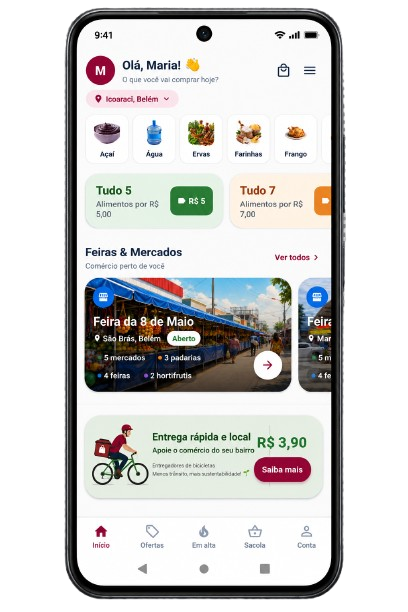
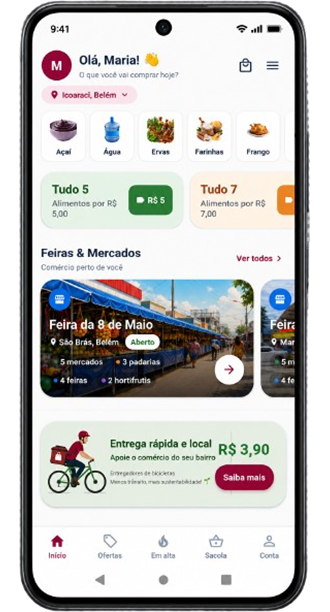
Ajusta FAQ, mockups das solucoes e card institucional
- FAQ: novas perguntas e respostas; card institucional com altura fixa (nao estica ao abrir)
- Padroniza os tres mockups dos apps em canvas unico sem cortes
- Categorias compactas na home com titulo 'Categorias com pronta entrega'
- Card 'App Entregador' e atualizacao dos textos do CTA
- Otimiza imagem do banner entregador

diff --git a/src/components/SolutionsGrid/index.tsx b/src/components/SolutionsGrid/index.tsx
@@ -2,27 +2,30 @@ import { ArrowRight } from "lucide-react";
 import { Link } from "@tanstack/react-router";
 import { SectionTitle } from "@/components/SectionTitle";
 import appClienteMockup from "@/assets/images/empresas/app-cliente.png";
+import appParceiroMockup from "@/assets/images/empresas/app-parceiro.png";
+import appEntregadorMockup from "@/assets/images/empresas/app-entregador.png";
 
 const solutions = [
   {
     title: "App do Cliente",
     text: "Compre em poucos cliques e receba rapidinho.",
     to: "/como-funciona",
+    mockup: appClienteMockup,
+    deviceAlt: "Aplicativo Armazém Tag em um smartphone",
   },
   {
     title: "App do Parceiro",
     text: "Gerencie seu negócio e receba pedidos.",
     to: "/estabelecimentos",
+    mockup: appParceiroMockup,
+    deviceAlt: "Aplicativo Armazém Tag do parceiro em um smartphone",
   },
   {
-    title: "App do Entregador",
+    title: "App Entregador",
     text: "Mais entregas feitas, trabalho com flexibilidade.",
     to: "/entregadores",
-  },
-  {
-    title: "Área do Empreendedor",
-    text: "Acompanhe vendas e gestão em um só lugar.",
-    to: "/como-funciona",
+    mockup: appEntregadorMockup,
+    deviceAlt: "Aplicativo Armazém Tag do entregador em um smartphone",
   },
 ] as const;
 
@@ -32,54 +35,49 @@ export function SolutionsGrid() {
       <SectionTitle className="solutions-section__title">
         Nossas soluções para todos
       </SectionTitle>
-      <div className="grid gap-3 md:grid-cols-4 mt-1 sm:mt-2">
-        {solutions.map(({ title, text, to }, i) => {
-          const isClient = i === 0;
-
-          if (isClient) {
-            return (
-              <article
-                key={title}
-                className="solution-card solution-card--client min-h-48 rounded-card bg-tint p-5"
-              >
-                <div className="solution-card__content">
-                  <span className="text-xs font-bold text-primary">
-                    SOLUÇÃO 0{i + 1}
-                  </span>
-                  <h3 className="mt-5 font-display text-xl font-extrabold">
-                    {title}
-                  </h3>
-                  <p className="mt-2 text-sm text-muted-foreground">{text}</p>
-                  <Link
-                    to={to}
-                    className="mt-7 inline-flex items-center gap-2 text-xs font-bold text-primary"
-                  >
-                    Conhecer agora <ArrowRight className="size-3" />
-                  </Link>
-                </div>
-                <img
-                  src={appClienteMockup}
-                  alt="Aplicativo Armazém Tag exibido em um smartphone"
-                  className="solution-card__device"
-                />
-              </article>
-            );
-          }
+      <div className="grid gap-3 md:grid-cols-3 mt-1 sm:mt-2">
+        {solutions.map(({ title, text, to, mockup, deviceAlt }, i) => {
+          const isFeatured = Boolean(mockup);
+          const cardClasses = `rounded-card ${
+            i === 1 ? "bg-[#faf9f8]" : i % 2 === 0 ? "bg-tint" : "bg-soft"
+          }${
+            isFeatured ? " solution-card solution-card--client" : " min-h-48 p-5"
+          }`;
 
           return (
-            <article
-              key={title}
-              className={`min-h-48 rounded-card p-5 ${i % 2 === 0 ? "bg-tint" : "bg-soft"}`}
-            >
-              <span className="text-xs font-bold text-primary">SOLUÇÃO 0{i + 1}</span>
-              <h3 className="mt-5 font-display text-xl font-extrabold">{title}</h3>
-              <p className="mt-2 text-sm text-muted-foreground">{text}</p>
-              <Link
-                to={to}
-                className="mt-7 inline-flex items-center gap-2 text-xs font-bold text-primary"
-              >
-                Conhecer agora <ArrowRight className="size-3" />
-              </Link>
+            <article key={title} className={cardClasses}>
+              <div className={isFeatured ? "solution-card__content" : undefined}>
+                <span
+                  className={`text-xs font-bold text-primary${isFeatured ? " solution-card__eyebrow" : ""}`}
+                >
+                  SOLUÇÃO 0{i + 1}
+                </span>
+                <h3
+                  className={`font-display text-xl font-extrabold${isFeatured ? " solution-card__title" : " mt-5"}`}
+                >
+                  {title}
+                </h3>
+                <p
+                  className={`text-sm text-muted-foreground${isFeatured ? " solution-card__description" : " mt-2"}`}
+                >
+                  {text}
+                </p>
+                <Link
+                  to={to}
+                  className={`${isFeatured ? "solution-card__link " : "mt-7 "}inline-flex items-center gap-2 text-xs font-bold text-primary`}
+                >
+                  Conhecer agora <ArrowRight className="size-3" />
+                </Link>
+              </div>
+              {isFeatured && (
+                <div className="solution-card__device-wrapper">
+                  <img
+                    src={mockup}
+                    alt={deviceAlt}
+                    className="solution-card__device"
+                  />
+                </div>
+              )}
             </article>
           );
         })}

diff --git a/src/components/FaqBlock/index.tsx b/src/components/FaqBlock/index.tsx
@@ -1,10 +1,30 @@
 import { ChevronDown } from "lucide-react";
 
 const faqs = [
-  "Como funcionam as entregas?",
-  "Quais bairros são atendidos?",
-  "Quais formas de pagamento?",
-  "Como ser parceiro?",
+  {
+    q: "Quem é responsável pela entrega?",
+    a: "A entrega é realizada pelo próprio estabelecimento ou por um entregador escolhido por ele. A Armazém Tag fornece a tecnologia para organizar o pedido e acompanhar seus status.",
+  },
+  {
+    q: "Com quem o cliente fala sobre o pedido?",
+    a: "O cliente trata diretamente com o estabelecimento assuntos relacionados ao produto, preparo, prazo e entrega. A Armazém Tag presta suporte para dificuldades técnicas relacionadas ao uso da plataforma.",
+  },
+  {
+    q: "Quais são os requisitos para cadastrar um estabelecimento?",
+    a: "O estabelecimento deve trabalhar com produtos à pronta entrega, já preparados ou disponíveis para despacho, manter preços e estoque atualizados e possuir uma forma própria de realizar as entregas.",
+  },
+  {
+    q: "Como o estabelecimento mantém as entregas rápidas?",
+    a: "O estabelecimento deve definir um raio de atendimento compatível com sua capacidade e contar com entregadores suficientes para a demanda. Os pedidos não devem ser acumulados por longos períodos antes da saída, pois isso compromete a rapidez e a qualidade da entrega.",
+  },
+  {
+    q: "Quais são minhas responsabilidades com os pagamentos?",
+    a: "O estabelecimento deve cumprir corretamente os pedidos aceitos e garantir a entrega dos produtos anunciados. Quando houver produto ausente, incorreto, impróprio para consumo ou pedido não entregue, deverá oferecer a correção do pedido, a troca do produto ou o reembolso total ou parcial, conforme o caso e as regras da plataforma. A troca deverá ser combinada com o cliente e realizada pelo estabelecimento. Quando houver reembolso, a Armazém Tag registra a ocorrência e processa o estorno por meio do parceiro financeiro.",
+  },
+  {
+    q: "Quanto custa a entrega?",
+    a: "A Armazém Tag conecta clientes a estabelecimentos próximos. Por isso, as taxas de entrega são reduzidas: grátis, R$ 3, R$ 5 ou no máximo R$ 7. O valor é definido pelo estabelecimento conforme a distância e aparece antes da confirmação do pedido. Quando a entrega for grátis, o custo será assumido pelo próprio estabelecimento, e não pela Armazém Tag.",
+  },
 ];
 
 export function FaqBlock() {
@@ -12,15 +32,13 @@ export function FaqBlock() {
     <div id="faq" className="rounded-section border border-border p-6">
       <h2 className="font-display text-2xl font-extrabold">Perguntas frequentes</h2>
       <div className="mt-5 divide-y divide-border">
-        {faqs.map((q) => (
+        {faqs.map(({ q, a }) => (
           <details key={q} className="group py-3">
             <summary className="flex cursor-pointer list-none items-center justify-between text-sm font-semibold">
               {q}
               <ChevronDown className="size-4 transition group-open:rotate-180" />
             </summary>
-            <p className="pt-2 text-xs text-muted-foreground">
-              Tudo é resolvido pelo app, com acompanhamento simples e suporte local.
-            </p>
+            <p className="pt-2 text-xs text-muted-foreground">{a}</p>
           </details>
         ))}
       </div>

diff --git a/src/styles.css b/src/styles.css
@@ -302,6 +302,29 @@
   }
 }
 
+.category-grid--compact .category-card {
+  height: 175px;
+}
+
+.category-grid--compact .category-card__image {
+  height: 128px;
+}
+
+.category-grid--compact .category-card__image img {
+  width: 74%;
+  height: 74%;
+}
+
+@media (max-width: 479px) {
+  .category-grid--compact .category-card {
+    height: 165px;
+  }
+
+  .category-grid--compact .category-card__image {
+    height: 118px;
+  }
+}
+
 @media (min-width: 1024px) {
   .categories-scroll {
     padding-left: 2.5rem;
@@ -321,46 +344,82 @@
 
 .solution-card--client {
   position: relative;
+  min-height: 254px;
+  padding: 24px;
+  overflow: hidden;
   isolation: isolate;
-  padding-right: 46%;
 }
 
 .solution-card--client .solution-card__content {
   position: relative;
-  z-index: 4;
+  z-index: 2;
+  width: 54%;
+  height: 100%;
+  display: flex;
+  flex-direction: column;
+}
+
+.solution-card__eyebrow {
+  margin-bottom: 24px;
+}
+
+.solution-card__title {
+  margin: 0 0 10px;
+}
+
+.solution-card__description {
+  margin: 0 0 20px;
+  line-height: 1.45;
+}
+
+.solution-card__link {
+  margin-top: auto;
+}
+
+.solution-card__device-wrapper {
+  position: absolute;
+  z-index: 2;
+  right: 16px;
+  bottom: 12px;
+  width: 86px;
+  height: 156px;
+  display: flex;
+  align-items: center;
+  justify-content: center;
+  overflow: visible;
+  pointer-events: none;
 }
 
 .solution-card__device {
-  position: absolute;
-  z-index: 3;
-  right: -12px;
-  bottom: 0;
-  width: clamp(105px, 44%, 140px);
+  display: block;
+  width: auto;
   height: auto;
+  max-width: 100%;
+  max-height: 100%;
   object-fit: contain;
-  filter: drop-shadow(0 8px 14px rgba(45, 12, 20, 0.18));
-  pointer-events: none;
+  object-position: center;
+  transform: none;
+  filter: drop-shadow(0 8px 11px rgba(45, 12, 20, 0.14));
   user-select: none;
 }
 
-@media (max-width: 1024px) {
+@media (max-width: 768px) {
   .solution-card--client {
-    padding-right: 44%;
+    padding: 22px;
   }
 
-  .solution-card__device {
-    right: -8px;
-    width: clamp(96px, 42%, 132px);
+  .solution-card--client .solution-card__content {
+    width: 56%;
   }
 }
 
-@media (max-width: 640px) {
+@media (max-width: 420px) {
   .solution-card--client {
-    padding-right: 42%;
+    min-height: 240px;
+    padding: 20px;
   }
 
-  .solution-card__device {
-    right: -6px;
-    width: clamp(88px, 38%, 116px);
+  .solution-card--client .solution-card__content {
+    width: 58%;
   }
 }

diff --git a/src/components/CategoryGrid/index.tsx b/src/components/CategoryGrid/index.tsx
@@ -23,7 +23,7 @@ const categories = [
   { name: "Água", image: aguaIcon },
 ] as const;
 
-export function CategoryGrid() {
+export function CategoryGrid({ compact = false }: { compact?: boolean }) {
   const containerRef = useRef<HTMLDivElement>(null);
   const dragRef = useRef({ startX: 0, startScroll: 0, dragging: false, moved: false });
   const [canScrollLeft, setCanScrollLeft] = useState(false);
@@ -95,8 +95,10 @@ export function CategoryGrid() {
   };
 
   return (
-    <section className="section-shell relative pt-7 pb-8 sm:pt-11 sm:pb-12">
-      <SectionTitle>Categorias em destaque</SectionTitle>
+    <section
+      className={`section-shell relative pt-7 pb-8 sm:pt-11 sm:pb-12${compact ? " category-grid--compact" : ""}`}
+    >
+      <SectionTitle>Categorias com pronta entrega</SectionTitle>
       <div className="relative">
         <button
           type="button"
@@ -119,7 +121,7 @@ export function CategoryGrid() {
         <div
           ref={containerRef}
           role="region"
-          aria-label="Categorias em destaque"
+          aria-label="Categorias com pronta entrega"
           tabIndex={0}
           onClickCapture={handleClickCapture}
           onPointerDown={handlePointerDown}

diff --git a/src/components/CourierCta/index.tsx b/src/components/CourierCta/index.tsx
@@ -7,19 +7,20 @@ export function CourierCta() {
   return (
     <div
       id="entregadores"
-      className="grid overflow-hidden rounded-section bg-tint sm:grid-cols-[1fr_.85fr]"
+      className="grid overflow-hidden rounded-section bg-tint sm:grid-cols-[1fr_.85fr] lg:h-[371px] lg:min-h-[371px] lg:self-start"
     >
       <div className="flex flex-col justify-center p-7">
         <h2 className="font-display text-3xl font-extrabold">
-          O bairro é seu.
-          <br />A entrega é nossa.
+          O entregador é seu.
+          <br />A tecnologia é nossa.
         </h2>
         <p className="mt-3 text-sm text-muted-foreground">
-          Mais do que um app de entrega, um movimento de conexão e crescimento local.
+          Você escolhe quem entrega. A Armazém Tag organiza os pedidos, o acompanhamento e a
+          comunicação em um só lugar.
         </p>
         <Button asChild variant="hero" className="mt-6 w-fit">
           <Link to="/entregadores">
-            Conhecer mais <ArrowRight />
+            Conhecer a plataforma <ArrowRight />
           </Link>
         </Button>
       </div>

diff --git a/src/screens/Home/index.tsx b/src/screens/Home/index.tsx
@@ -39,13 +39,13 @@ export function Home() {
         </div>
       </section>
 
-      <CategoryGrid />
+      <CategoryGrid compact />
       <div className="pt-2 sm:pt-4">
         <SolutionsGrid />
       </div>
 
       {/* FAQ + CTA */}
-      <section className="section-shell grid gap-4 pb-10 lg:grid-cols-[.9fr_1.1fr]">
+      <section className="section-shell grid gap-4 pb-10 lg:grid-cols-[.9fr_1.1fr] lg:items-start">
         <FaqBlock />
         <CourierCta />
       </section>

diff --git a/src/routes/como-funciona.tsx b/src/routes/como-funciona.tsx
@@ -7,7 +7,7 @@ export const Route = createFileRoute("/como-funciona")({
       { title: "Como funciona | Armazém Tag" },
       {
         name: "description",
-        content: "App do Cliente, App do Parceiro, App do Entregador e Área do Empreendedor.",
+        content: "App do Cliente, App do Parceiro e App Entregador.",
       },
     ],
   }),
